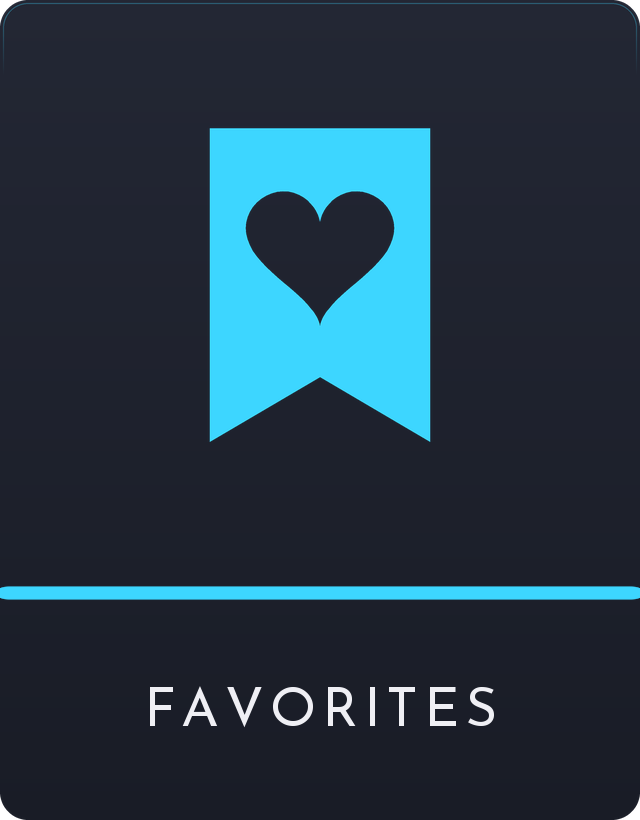
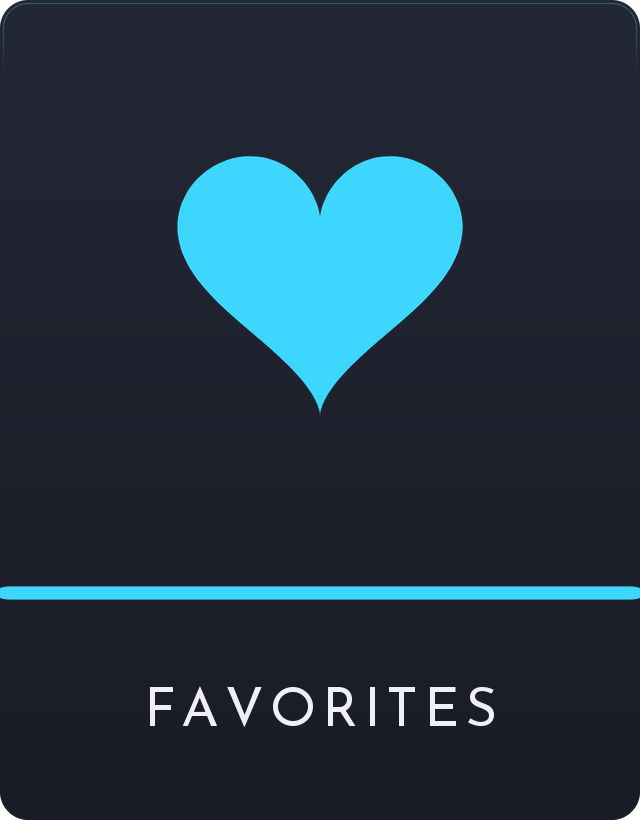
Favorites and Recently Played: a red heart and a wall clock
Fancy Pants is SkyWalker541's pictures, a matte red heart and a mid-century
wall clock, cut from their backdrops by tools/genfavrecentphoto.py. Plain Jane
draws them flat to match: the heart on its own, the shelf's own heart curve,
and the clock's rounded-square case with its face, hour marks and hands at
10:10.

Claude-Session: https://claude.ai/code/session_01TGGsTE1DNkb6MQqq6tNzFj

Changed region(s): [[0.2812, 0.1524, 0.7188, 0.5488]]

diff --git a/tools/genrecentcard.py b/tools/genrecentcard.py
@@ -1,7 +1,7 @@
 #!/usr/bin/env python3
-"""Draw the Recently Played shelf's two cards: res/cards/classic/RECENT.png
-(and, with fancy() only, a flat Fancy Pants card; the one in use is rendered
-by tools/genrecentfancy.py). In the sets' folders, where the launcher looks for a card; it sat
+"""Draw the Recently Played shelf's Plain Jane card, res/cards/classic/RECENT.png
+(and, with fancy() only, a flat Fancy Pants card; the one in use since 2.7.7
+is a photograph, cut by tools/genfavrecentphoto.py). In the sets' folders, where the launcher looks for a card; it sat
 beside them until 2026-11-13, found by nothing, so the shelf drew its
 generated card in every set.
 
@@ -9,9 +9,12 @@ Same standing arrangement as tools/genfavcard.py: not a console, so it is
 generated, in TortOS's cyan (tools/markdef.py's CYAN), on tools/cardstyle.py -
 the drawn set's own stock, rule and tracked name.
 
-The mark is a clock, knocked out of a solid disc rather than outlined, for the
-same reason as the bookmark on the Favorites card: the deck has no strokes.
-Two hands, punched back to the card stock.
+The mark is the Fancy Pants card's wall clock drawn flat: its rounded-square
+case (a superellipse) solid, its face knocked out to the stock, twelve hour
+marks, and the hands at the photograph's 10:10 with the second hand toward 7,
+standing in the face - knocked out rather than outlined, as the deck has no
+strokes; hands and marks bold enough to read at a side card's 62%. A round
+clock with two hands punched through it until 2.7.6.
 """
 import math
 import os
@@ -30,40 +33,61 @@ FANCY = os.path.join(ROOT, "res", "cards", "fancy", "RECENT.png")
 SS = 4                      # supersample, so the edges are not ragged
 
 
-def hand(cx, cy, angle_deg, length, width):
-    """A straight hand from the centre, as a thin quad, at angle (0 = up)."""
-    a = math.radians(angle_deg)
-    dx, dy = math.sin(a), -math.cos(a)
-    px, py = -dy, dx
-    tx, ty = cx + dx * length, cy + dy * length
-    w = width / 2.0
-    return [(cx + px * w, cy + py * w), (tx + px * w, ty + py * w),
-            (tx - px * w, ty - py * w), (cx - px * w, cy - py * w)]
+def superellipse(cx, cy, a, b, n, steps=360):
+    pts = []
+    for i in range(steps):
+        t = 2 * math.pi * i / steps
+        c, s_ = math.cos(t), math.sin(t)
+        pts.append((cx + a * math.copysign(abs(c) ** (2 / n), c),
+                    cy + b * math.copysign(abs(s_) ** (2 / n), s_)))
+    return pts
 
 
-def clock(d, cx, cy, r, fill, cut):
+def bar(cx, cy, ang, length, w, back=0.0):
+    """A hand or a mark: from `back` behind (cx, cy) to `length` along `ang`,
+    clockwise from 12."""
+    a = math.radians(ang - 90)
+    ux, uy = math.cos(a), math.sin(a)
+    px, py = -uy * w / 2, ux * w / 2
+    x0, y0 = cx - ux * back, cy - uy * back
+    x1, y1 = cx + ux * length, cy + uy * length
+    return [(x0 + px, y0 + py), (x1 + px, y1 + py), (x1 - px, y1 - py), (x0 - px, y0 - py)]
+
+
+def clock(d, cx, cy, k, fill, cut):
+    """The wall clock, 300px across at k = 1."""
+    A, F, n = 150 * k, 120 * k, 3.6
+    d.polygon(superellipse(cx, cy, A, A * 0.96, 4.2), fill=fill)       # the case
+    d.polygon(superellipse(cx, cy, F, F * 0.96, n), fill=cut)          # the face
+    for h in range(12):                                                # the hours
+        long_ = h % 3 == 0
+        a = math.radians(h * 30 - 90)
+        c, s_ = math.cos(a), math.sin(a)
+        edge = F / ((abs(c) ** n + abs(s_ / 0.96) ** n) ** (1 / n))
+        mx, my = cx + c * (edge - 10 * k), cy + s_ * (edge - 10 * k)
+        d.polygon(bar(mx, my, h * 30 + 180, (26 if long_ else 15) * k,
+                      (13 if long_ else 9) * k), fill=fill)
+    d.polygon(bar(cx, cy, 305, 64 * k, 19 * k, 12 * k), fill=fill)     # hour, past 10
+    d.polygon(bar(cx, cy, 60, 94 * k, 14 * k, 12 * k), fill=fill)      # minute, at 2
+    d.polygon(bar(cx, cy, 204, 96 * k, 5.5 * k, 22 * k), fill=fill)    # seconds, toward 7
+    r = 15 * k
     d.ellipse([cx - r, cy - r, cx + r, cy + r], fill=fill)
-    k = r / 130.0
-    d.polygon(hand(cx, cy, 0, 92 * k, 26 * k), fill=cut)     # minute
-    d.polygon(hand(cx, cy, 90, 66 * k, 26 * k), fill=cut)    # hour
-    d.ellipse([cx - 14 * k, cy - 14 * k, cx + 14 * k, cy + 14 * k], fill=cut)
 
 
 def fancy():
     n = 384 * SS
     im = Image.new("RGBA", (n, n), (0, 0, 0, 0))
     d = ImageDraw.Draw(im)
-    clock(d, n // 2, n // 2, (369 * SS) // 2, CYAN + (255,), (0, 0, 0, 0))
+    clock(d, n // 2, n // 2, 369 * SS / 300, CYAN + (255,), (0, 0, 0, 0))
     im = im.resize((384, 384), Image.LANCZOS)
     im.save(FANCY)
     print(FANCY, im.size, "ink", im.getchannel("A").getbbox())
 
 
 def main():
-    # A disc 290px across: the round console marks' size (SNES's buttons are
-    # 321 by 313), centred where they are
+    # 285px across at 0.95, as the heart and the round console marks are
     im = cardstyle.card(tuple(CYAN), "RECENTLY PLAYED",
-                        lambda d, cx, cy, k, fill, cut: clock(d, cx, cy, 145 * k, fill, cut))
+                        lambda d, cx, cy, k, fill, cut: clock(d, cx, cy, 0.95 * k, fill, cut))
     im.save(OUT)
     print(OUT, os.path.getsize(OUT), "bytes")
 

diff --git a/tools/genfavrecentphoto.py b/tools/genfavrecentphoto.py
@@ -1,0 +1,83 @@
+#!/usr/bin/env python3
+"""Cut Favorites' and Recently Played's cards in Fancy Pants from photographs
+supplied by SkyWalker541 (res/cards/fancy/SOURCE.md):
+
+  FAVORITES.png  from source/favorites-heart.jpg, a red heart, matte
+  RECENT.png     from source/recent-clock.jpg, a mid-century wall clock
+
+Each on a light studio backdrop. A rough outline first, each by what tells it
+from its backdrop: the heart by its red, which its grey shadow and the caption
+tag under it don't have; the clock by any step away from the white, which its
+cream case takes. Its largest piece, filled, seeds GrabCut in a narrow band;
+the result is smoothed, pulled in a pixel and feathered one, the colours
+cleaned of speckle and lightly sharpened, and the card trimmed, longest side
+96% of 384, centred, as the set is (tools/genportsphoto.py, genmusephoto.py).
+
+    tools/genfavrecentphoto.py [outdir]
+"""
+import os
+import sys
+
+import cv2
+import numpy as np
+from PIL import Image, ImageFilter
+from scipy import ndimage
+
+ROOT = os.path.dirname(os.path.dirname(os.path.abspath(__file__)))
+SRC = os.path.join(ROOT, "res", "cards", "fancy", "source")
+OUT = os.path.join(ROOT, "res", "cards", "fancy")
+
+
+def rough_heart(a):
+    return (a[..., 0] - a[..., 1]) > 30
+
+
+def rough_clock(a):
+    return (255 - a.min(-1)) > 12
+
+
+CARDS = [
+    ("FAVORITES.png", "favorites-heart.jpg", rough_heart),
+    ("RECENT.png", "recent-clock.jpg", rough_clock),
+]
+
+
+def largest(m):
+    lab, n = ndimage.label(m)
+    return ndimage.binary_fill_holes(lab == 1 + np.argmax(ndimage.sum(m, lab, range(1, n + 1))))
+
+
+def cut(src_path, rough_fn, out_path):
+    src = Image.open(src_path).convert("RGB")
+    a = np.asarray(src).astype(int)
+    rough = largest(rough_fn(a))
+
+    mask = np.full(rough.shape, cv2.GC_PR_BGD, np.uint8)
+    mask[rough] = cv2.GC_PR_FGD
+    mask[ndimage.binary_erosion(rough, iterations=8)] = cv2.GC_FGD
+    mask[~ndimage.binary_dilation(rough, iterations=6)] = cv2.GC_BGD
+    img = cv2.cvtColor(np.asarray(src), cv2.COLOR_RGB2BGR)
+    cv2.grabCut(img, mask, None, np.zeros((1, 65)), np.zeros((1, 65)), 5, cv2.GC_INIT_WITH_MASK)
+    obj = largest((mask == cv2.GC_FGD) | (mask == cv2.GC_PR_FGD))
+    smooth = ndimage.binary_erosion(ndimage.gaussian_filter(obj.astype(float), 2.0) > 0.5, iterations=1)
+    alpha = ndimage.gaussian_filter(smooth.astype(float), 0.8)
+
+    out = src.filter(ImageFilter.MedianFilter(3)).filter(
+        ImageFilter.UnsharpMask(radius=1.2, percent=55, threshold=2))
+    out.putalpha(Image.fromarray((alpha * 255).astype(np.uint8)))
+    out = out.crop(out.getchannel("A").getbbox())
+    k = 369.0 / max(out.size)
+    out = out.resize((round(out.width * k), round(out.height * k)), Image.LANCZOS)
+    card = Image.new("RGBA", (384, 384), (0, 0, 0, 0))
+    card.paste(out, ((384 - out.width) // 2, (384 - out.height) // 2), out)
+    card.save(out_path)
+    print(out_path, "ink", card.getchannel("A").getbbox())
+
+
+def main(outdir):
+    for name, src, fn in CARDS:
+        cut(os.path.join(SRC, src), fn, os.path.join(outdir, name))
+
+
+if __name__ == "__main__":
+    main(sys.argv[1] if len(sys.argv) > 1 else OUT)

diff --git a/tools/genfavcard.py b/tools/genfavcard.py
@@ -10,9 +10,10 @@ it to drift.
 
 On tools/cardstyle.py (ChaOS, 2026-11-13): the drawn set's own stock, rule
 and tracked name, where it was a flat slab matched by measurement before.
-One mark: a bookmark ribbon with markdef.heart() knocked out of it, in the
-same cyan as the rule. Three ascending stars before 2026-08-30, then three
-hearts for about an hour.
+One mark: markdef.heart(), solid, in the same cyan as the rule - the Fancy
+Pants card's heart (a photograph since 2.7.7) drawn flat, front on. A
+bookmark ribbon with the heart knocked out of it until 2.7.6; three ascending
+stars before 2026-08-30, then three hearts for about an hour.
 
 KNOCKED OUT RATHER THAN OUTLINED, and that is the whole reason it fits. The
 other nine cards are flat shapes - no strokes anywhere in the deck - and this
@@ -38,25 +39,15 @@ OUT = os.path.join(ROOT, "res", "cards", "classic", "FAVORITES.png")
 
 
 
-def bookmark(cx, cy, w, h, notch):
-    """A ribbon: square shoulders, two points at the bottom with a V between."""
-    x0, x1 = cx - w / 2.0, cx + w / 2.0
-    y0, y1 = cy - h / 2.0, cy + h / 2.0
-    return [(x0, y0), (x1, y0), (x1, y1), (cx, y1 - notch), (x0, y1)]
-
-
-def mark(d, cx, cy, k, ribbon, cut, scale=0.95):
-    """The ribbon, then the heart punched through it to the stock.
-
-    The heart sits above the notch rather than centered in the ribbon: centered,
-    its point crowds the V and the two shapes argue about where the middle is.
-    At 0.95, 314px tall, as the tallest console marks are.
-    """
+def mark(d, cx, cy, k, fill, cut, scale=0.95):
+    """The heart, 300px across at 0.95, centred: the size the round marks are."""
     k = k * scale
-    d.polygon(bookmark(cx, cy, 232 * k, 330 * k, 68 * k), fill=ribbon)
-    hr, hy = 78 * k, cy - 28 * k
-    d.polygon([(cx + x * 2 * hr, hy + y * 2 * hr) for x, y in heart(96)],
-              fill=cut)
+    pts = heart(240)
+    xs = [p[0] for p in pts]
+    ys = [p[1] for p in pts]
+    s = 300 * k / (max(xs) - min(xs))
+    mx, my = (max(xs) + min(xs)) / 2, (max(ys) + min(ys)) / 2
+    d.polygon([(cx + (x - mx) * s, cy + (y - my) * s) for x, y in pts], fill=fill)
 
 
 def main():

diff --git a/CREDITS.md b/CREDITS.md
@@ -150,7 +150,7 @@ sold, put behind a paywall, or shipped with a device that is sold.
 - **The port library pack** (`dist/libpack/`, the "portlibs" release, `tools/build-libpack.sh`): libraries a port may need that the Brick hasn't got, fetched by ChaOS only for a port that needs one, into `.userdata/brick/ports/lib`: **libtheora** 1.1.1 (BSD-3-Clause), **pixman** 0.42.2 (MIT), **GMP** 6.3.0 (LGPL-3.0-or-later or GPL-2.0-or-later), **cairo** 1.18.0 (LGPL-2.1 or MPL-1.1), **fontconfig** 2.15.0 (MIT), **FLAC** 1.3.3 (BSD-3-Clause), **libevdev** 1.13.1 (MIT), GCC 13.3.0's **libgomp** (GPL-3.0-or-later with the GCC Runtime Library Exception), and ChaOS's own stand-in for PulseAudio's **libpulse-simple** (MIT). `dist/libpack/SOURCES.txt` says where each source came from; the sources go with the release.
 - **GNU bash** 5.1.16 (https://www.gnu.org/software/bash/, GPL-3.0-or-later): `/bin/bash` in the image, unchanged, for ports. Its licence is `Licenses/bash.txt` on the card and its source is in each release's sources archive (`dist/brick/bash-source.tar.xz`, built by `tools/build-bash.sh`).
 - **squashfs-tools** 4.6.1's **unsquashfs** (https://github.com/plougher/squashfs-tools, GPL-2.0-or-later), built static with **zlib** 1.3.1 (zlib licence), **xz** 5.6.3 (0BSD and public domain), **Zstandard** 1.5.6 (BSD) and **LZ4** 1.10.0 (BSD-2-Clause): unpacks ports' runtimes on the card (`TortOS/ports/bin/unsquashfs`), unchanged. Its licence is `Licenses/squashfs-tools.txt` on the card and its source is in each release's sources archive (`dist/brick/unsquashfs-source.tar.xz`, built by `tools/build-unsquashfs.sh`).
-- **The Favorites, Muse, Recently Played, Ports and PICO-8 cards** are ChaOS's own, with no third-party images: in Plain Jane on the drawn set's own card (`tools/cardstyle.py`, `tools/genpico8card.py`), in Fancy Pants rendered in 3D as objects (`tools/raymarch.py`; `tools/genmusefancy.py`, `tools/genportsfancy.py`, `tools/genrecentfancy.py`, `tools/genpico8fancy.py`). The PICO-8 cards are a generic cartridge with a pixel heart, nothing of PICO-8's own logo; their pink is a color of its palette. Muse's Fancy Pants card is a first-generation iPod, its picture by SkyWalker541, generated with Gemini for ChaOS (`res/cards/fancy/source/muse-ipod.jpg`), cut and its screen blanked by `tools/genmusephoto.py`; it replaces TortOS's iPod photograph, whose source was never recorded. Recently Played's Fancy Pants card is a watch whose ChaOS dial is by SkyWalker541, made for ChaOS (`res/cards/fancy/source/recent-watch.jpg`), on a case rendered by `tools/genrecentwatch.py`.
+- **The Favorites, Muse, Recently Played, Ports and PICO-8 cards** are ChaOS's own, with no third-party images: in Plain Jane on the drawn set's own card (`tools/cardstyle.py`, `tools/genpico8card.py`), in Fancy Pants the PICO-8 card is rendered in 3D (`tools/raymarch.py`, `tools/genpico8fancy.py`) and the other four are pictures made for ChaOS, below. The PICO-8 cards are a generic cartridge with a pixel heart, nothing of PICO-8's own logo; their pink is a color of its palette. Muse's Fancy Pants card is a first-generation iPod, its picture by SkyWalker541, generated with Gemini for ChaOS (`res/cards/fancy/source/muse-ipod.jpg`), cut and its screen blanked by `tools/genmusephoto.py`; it replaces TortOS's iPod photograph, whose source was never recorded. Favorites' and Recently Played's Fancy Pants cards are a red heart and a wall clock, their pictures by SkyWalker541, generated with Gemini for ChaOS (`res/cards/fancy/source/favorites-heart.jpg`, `recent-clock.jpg`), cut by `tools/genfavrecentphoto.py`.
 - **ChaOS logo** ("Handheld burst"): original pixel art made for ChaOS, drawn
   pixel by pixel in `tools/genlogo.py` with no third-party images or fonts;
   see `res/logo/SOURCE.md`.

diff --git a/res/cards/fancy/SOURCE.md b/res/cards/fancy/SOURCE.md
@@ -26,12 +26,14 @@ NES.png is an NES and not a Famicom, SNES.png a SNES, GENESIS.png a Genesis
 Model 2, PCE.png a TurboGrafx-16. They were imported under Japanese short
 codes (FC, SFC, MD) that describe the code, not the photograph.
 
-FAVORITES.png is not one of these photographs, and nothing above applies to
-it. Favorites is a shelf rather than a console, so there is no hardware to
-photograph and it carries a heart instead. Since ChaOS 2.7.4 it is rendered
-(`tools/genfavfancy.py`) from no images, in matte red plastic to match the
-set's finish, where it was a glossy generated heart. It carries no
-attribution requirement, and no rights are claimed in it.
+FAVORITES.png is not one of these photographs. Favorites is a shelf rather
+than a console, so there is no hardware to photograph and it carries a heart
+instead. Since ChaOS 2.7.7 it is a matte red heart on a white studio backdrop,
+supplied by SkyWalker541 on 2026-11-23 for this card, generated with Gemini
+(`source/favorites-heart.jpg`, kept here; the picture's caption tag is left
+out). `tools/genfavrecentphoto.py` cuts it from its backdrop and its shadow
+and frames it as above. It replaced the heart rendered by
+`tools/genfavfancy.py` (2.7.4 to 2.7.6), which is kept.
 
 ## MUSE.png
 
@@ -48,14 +50,14 @@ rendered player of `tools/genmusefancy.py` before that; both kept).
 
 ## RECENT.png
 
-Not a console: Recently Played's card, a steel watch with ChaOS on its dial.
-The dial is SkyWalker541's, made for ChaOS (generated with Gemini) and given
-to the project on 2026-11-14; its source is `source/recent-watch.jpg`, kept
-here. `tools/genrecentwatch.py` lays its dial and inner ring on a modelled
-steel case and crown and renders it (`tools/raymarch.py`), so it turns as the
-other rendered cards do, with the case's side showing, framed as above. It
-replaces the rendered alarm clock (`tools/genrecentfancy.py`), which is kept. Since 2.7.4 its case is satin rather than polished,
-to sit with the set's matte plastics.
+Not a console: Recently Played's card, a mid-century wall clock, its cream
+case round a brushed-steel bezel, at 10:10. Supplied by SkyWalker541 on
+2026-11-23 for this card, generated with Gemini (`source/recent-clock.jpg`,
+kept here); `tools/genfavrecentphoto.py` cuts it from its white backdrop and
+frames it as above. It replaced the satin watch with ChaOS on its dial
+(2.7.3 to 2.7.6, `tools/genrecentwatch.py`, its dial `source/recent-watch.jpg`),
+which is kept, as is the rendered alarm clock before it
+(`tools/genrecentfancy.py`).
 
 ## PS.png
 
